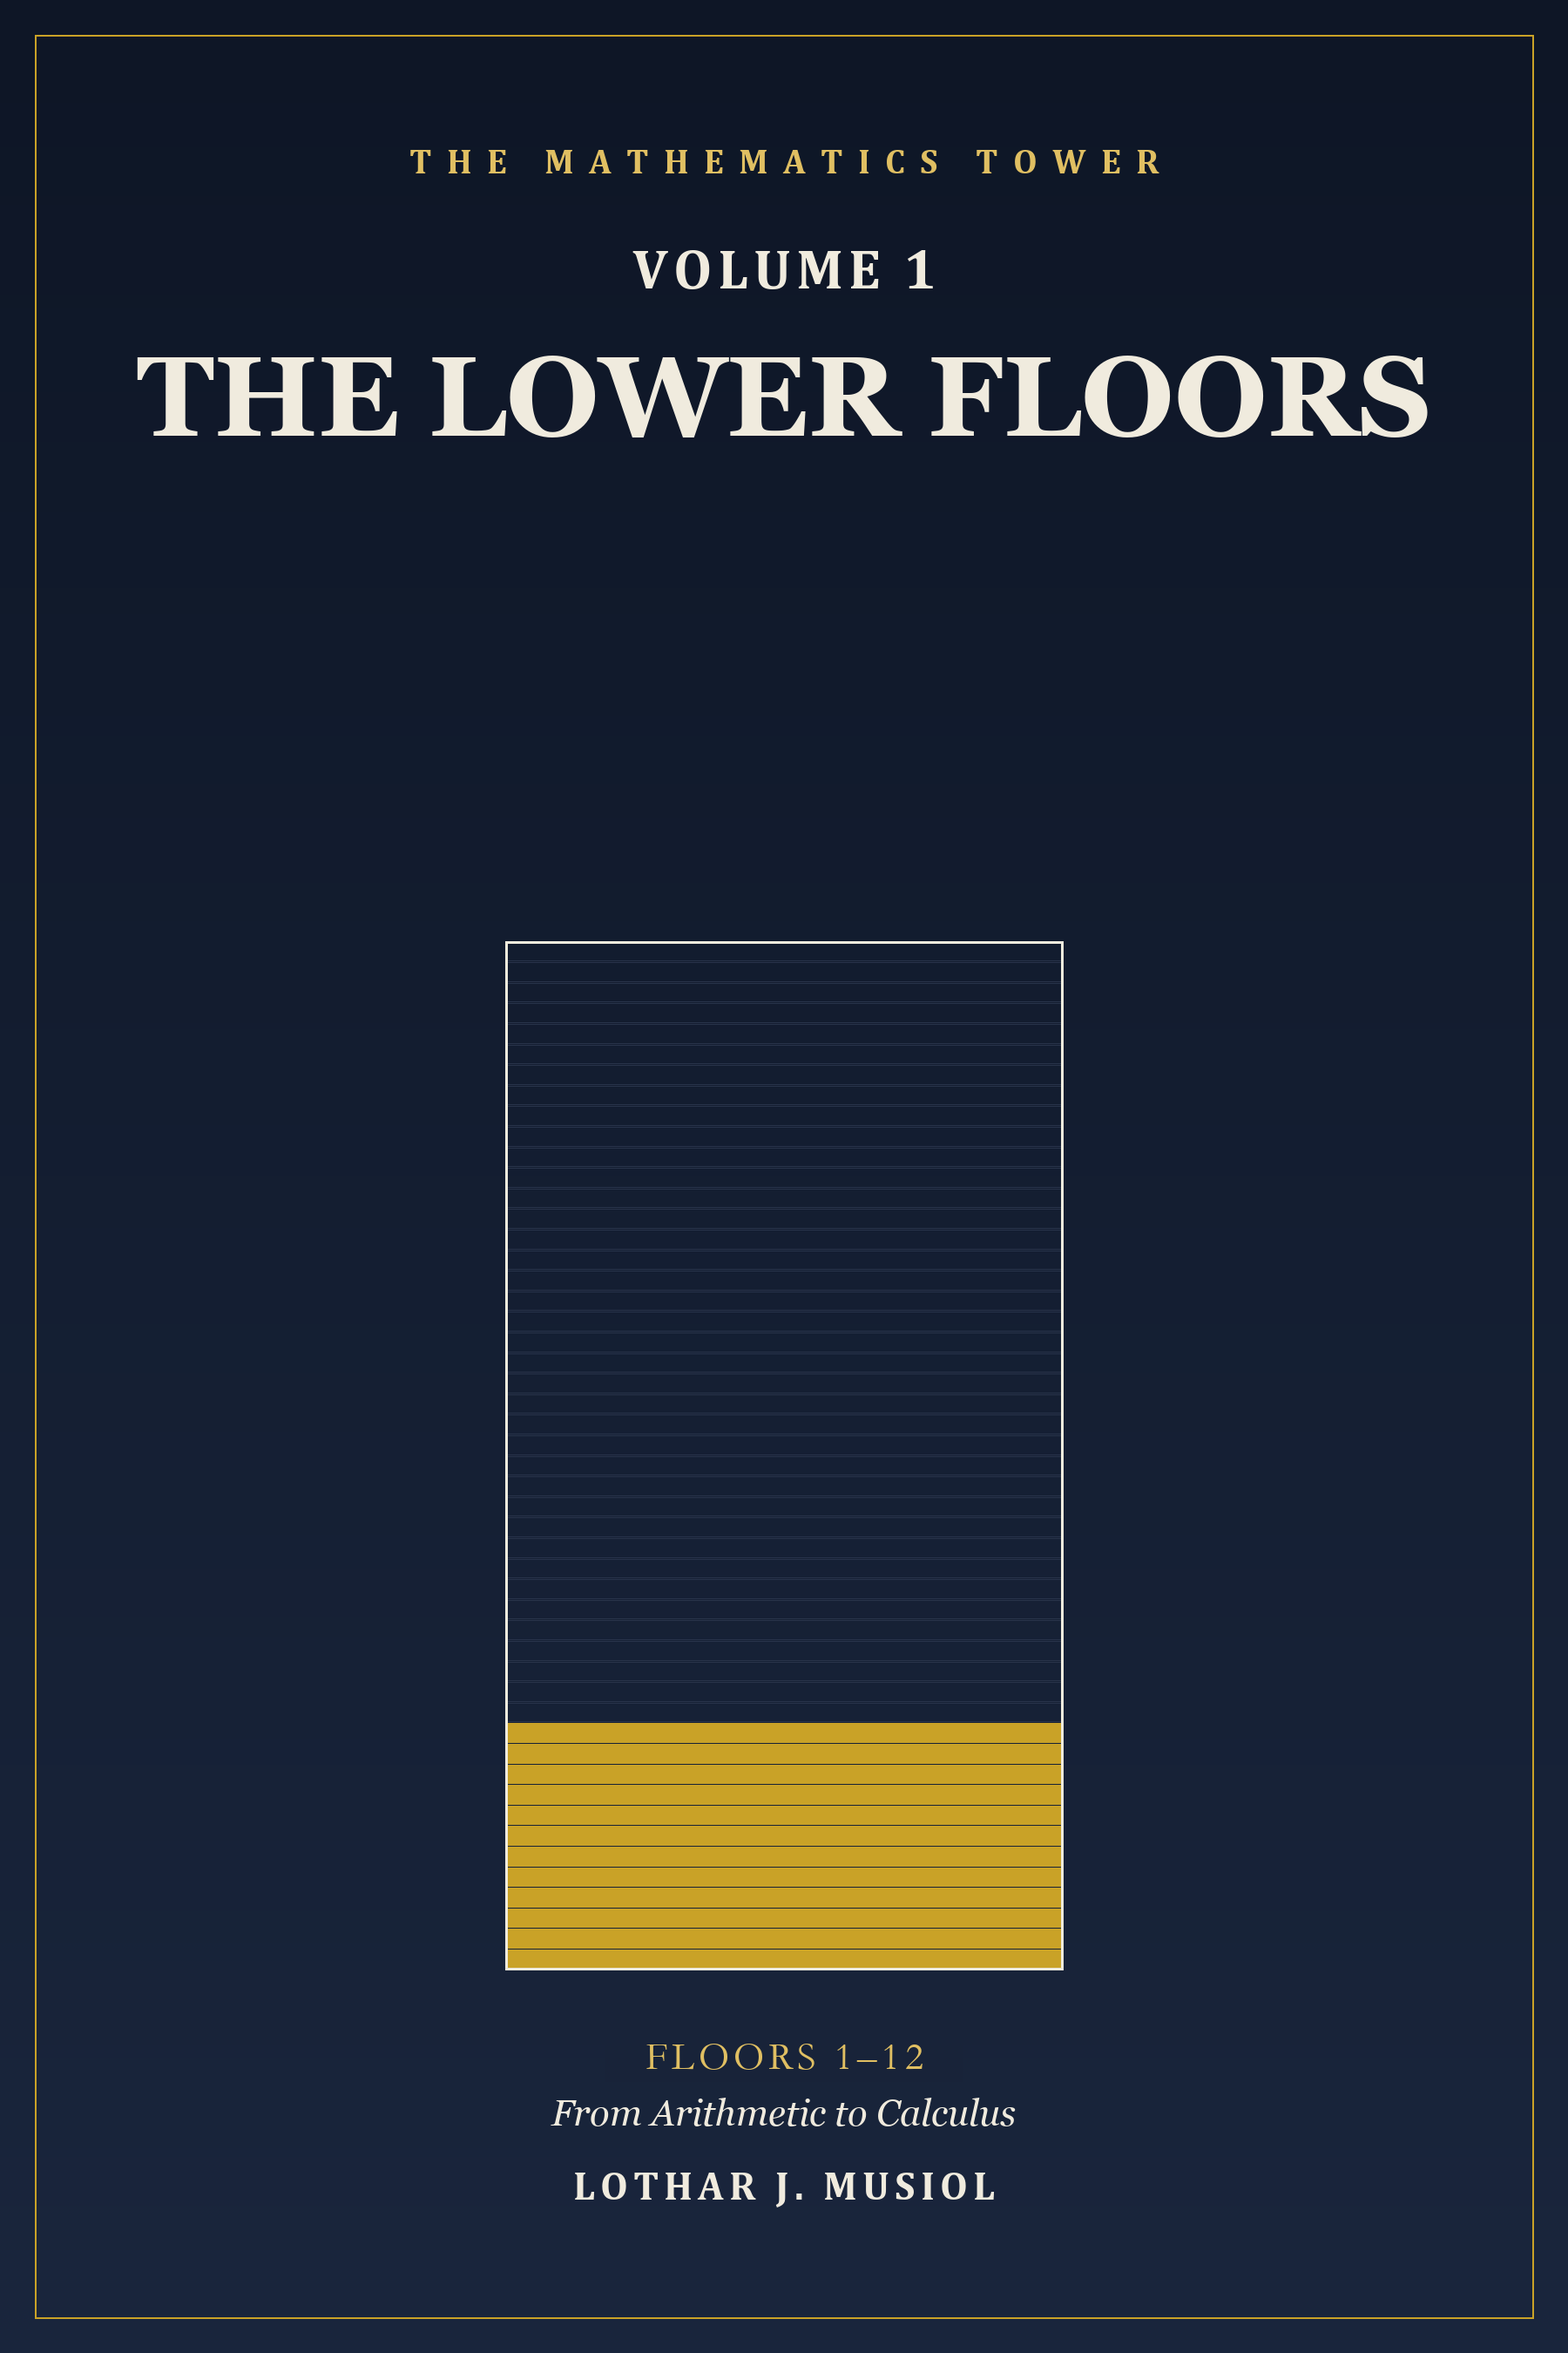
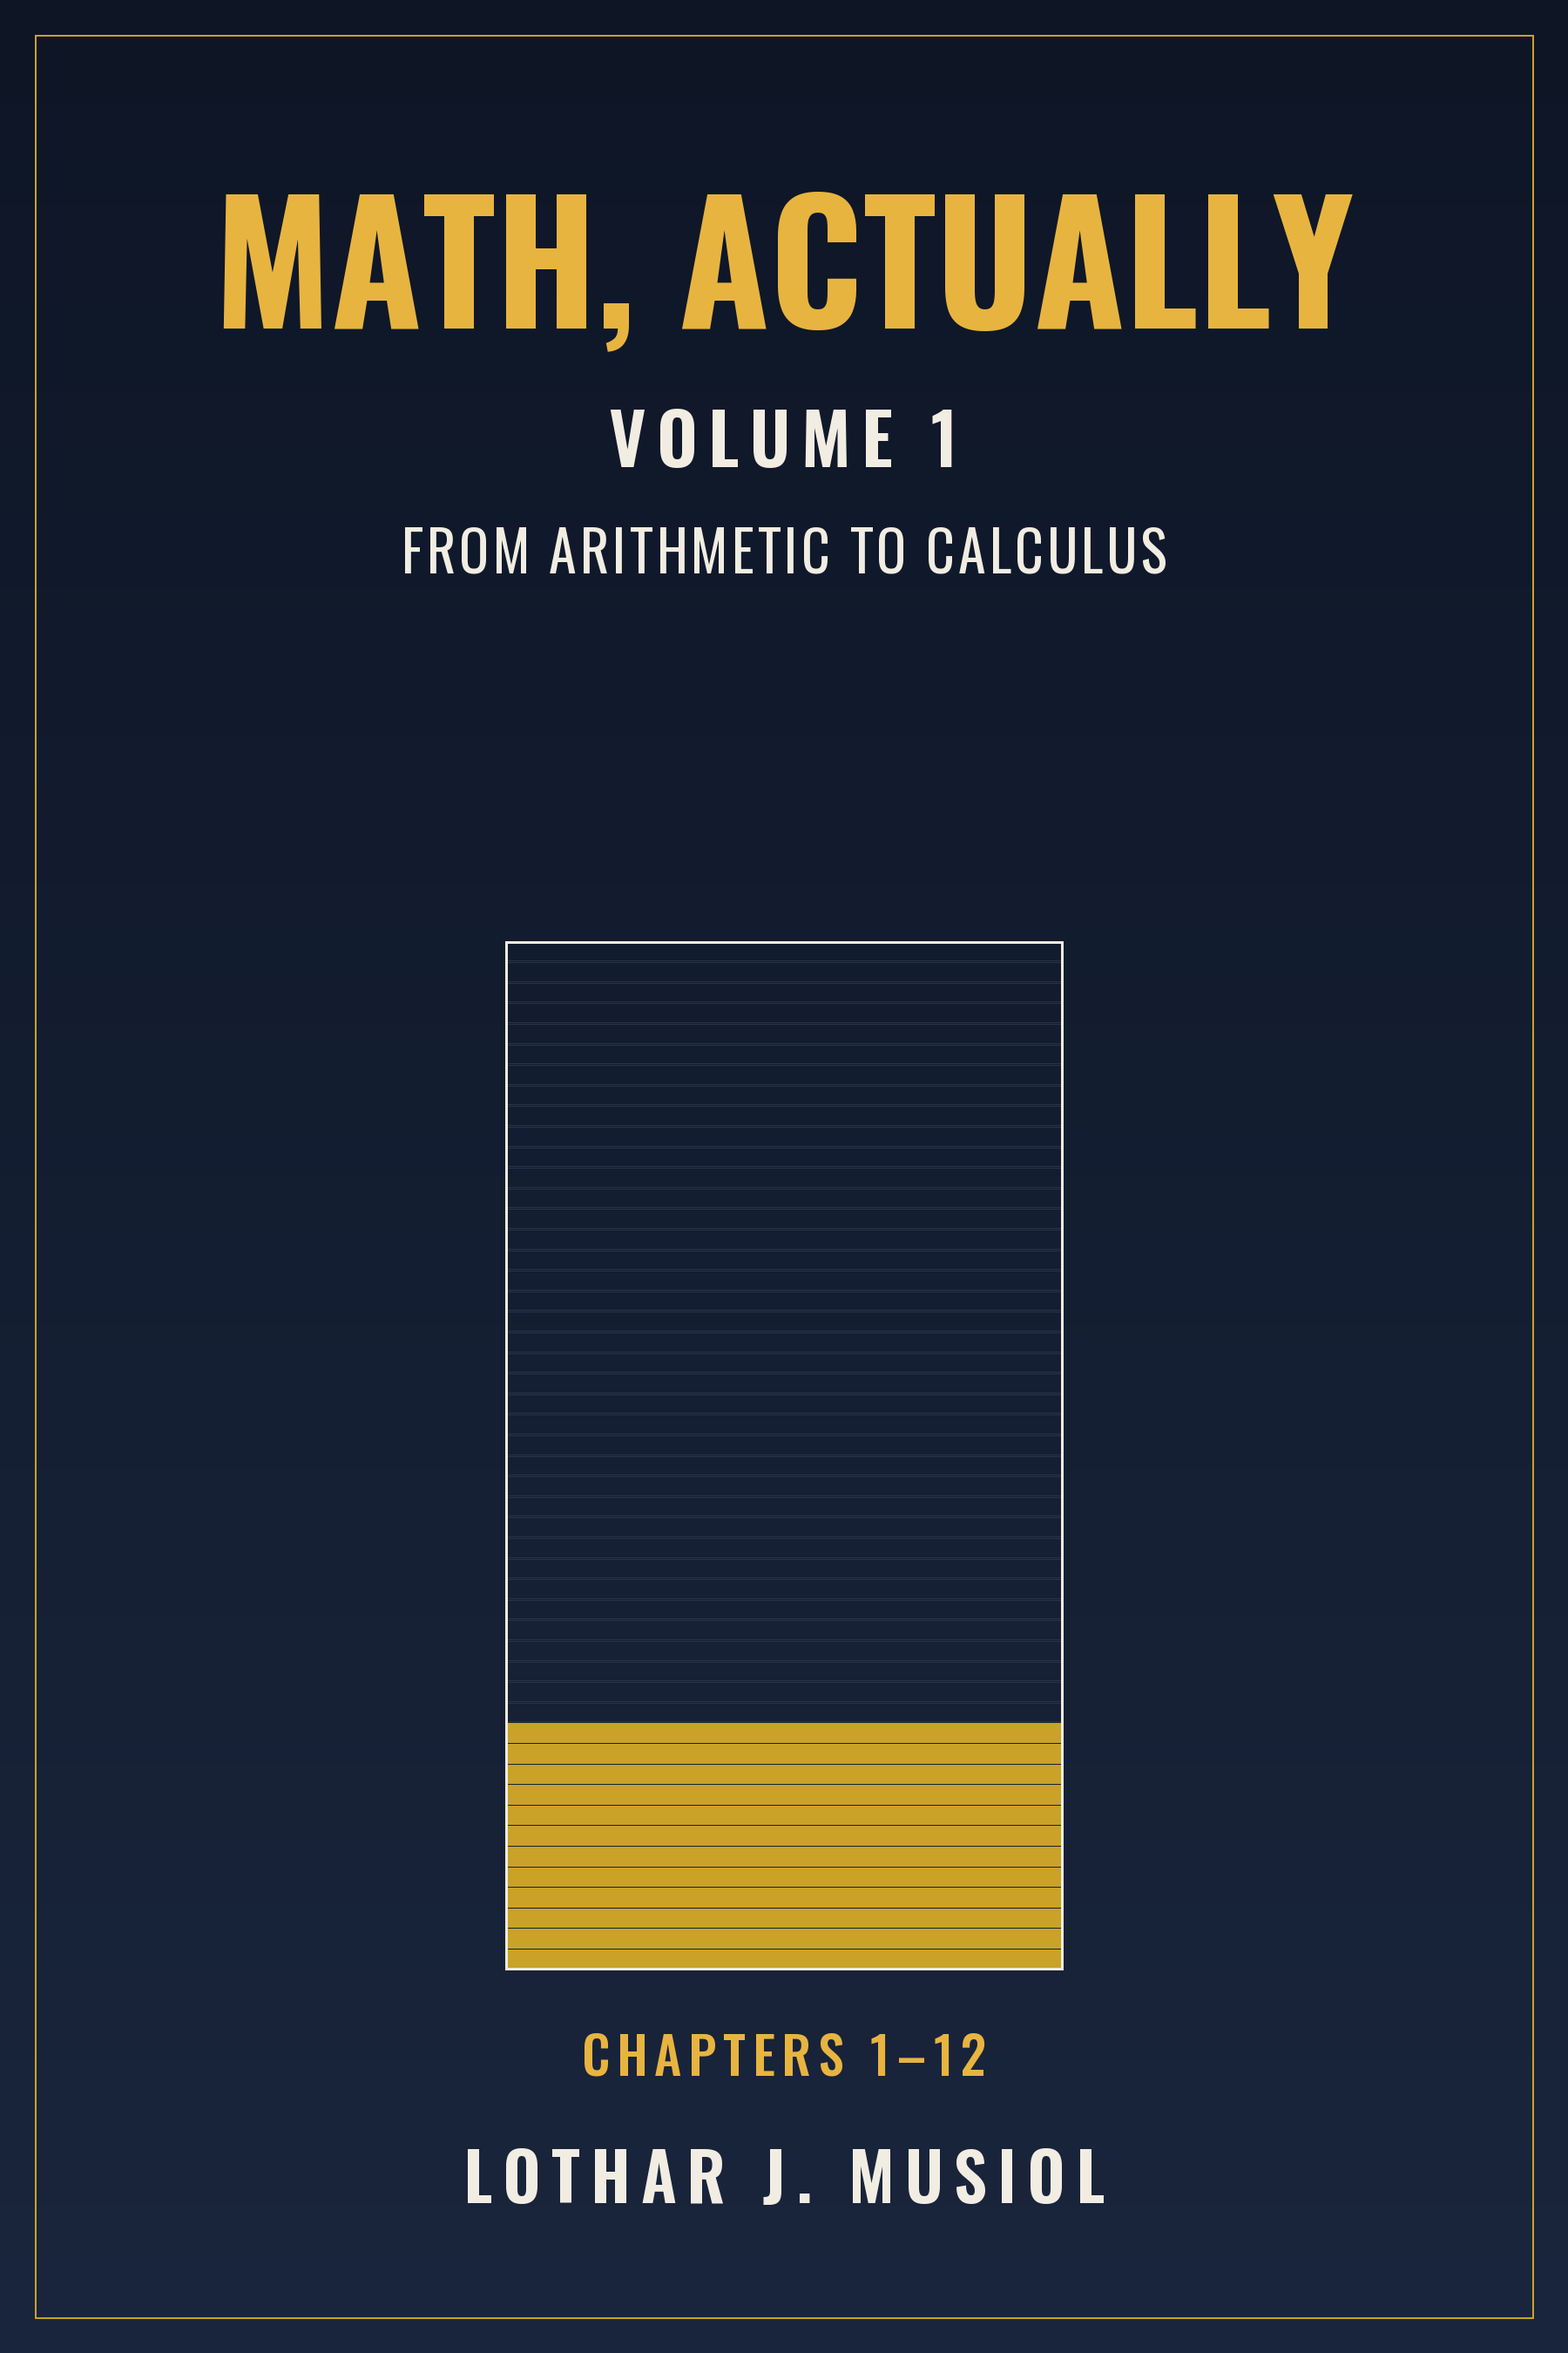
Math, Actually: new covers (front 1600x2560, Cover Art, back) with new title; KDP cover note updated

Changed region(s): [[0.0933, 0.0622, 0.9333, 0.2489], [0.28, 0.84, 0.7156, 0.9333]]

diff --git a/Math, Actually - SERIES/KDP_Description.md b/Math, Actually - SERIES/KDP_Description.md
@@ -9,9 +9,10 @@ Lothar still has to decide: price, categories, keywords, and whether to name
 
 Series name (KDP series field): Math, Actually
 
-Cover note: the current cover images (`Cover  Volume 1-4.jpg`, `Cover Art\`,
-`back cover.png`) still show the old Tower title and wording. They need new
-artwork before upload.
+Cover note: new covers made 2 Oct 2026 with the Math, Actually title.
+`Cover  Volume 1-4.jpg` (1600x2560, KDP ebook ratio 1.6) are the upload covers;
+`Cover Art\` (used by make_epub.py) and `back cover.png` were redone too.
+Old Tower covers: `D:\bak\2026-10-02 Math covers\`.
 
 ---
 
@@ -136,7 +137,6 @@ problems, with answers and solutions at the back.
    single-file complete edition in `bak\READY (2026-09-26)` is an old build
    from 26 Sep under the old title, so it is out of date.)
 2. KDP categories and the seven keywords for each volume.
-3. New cover art with the Math, Actually title (the current covers still say
-   "The Mathematics Tower").
+3. Check the new Math, Actually covers (made 2 Oct 2026) before upload.
 4. Worked-example counts are the recounted figures from 1 Oct 2026: 430 / 433 / 361 / 349,
    1,573 in all. The volumes state the same figures.
